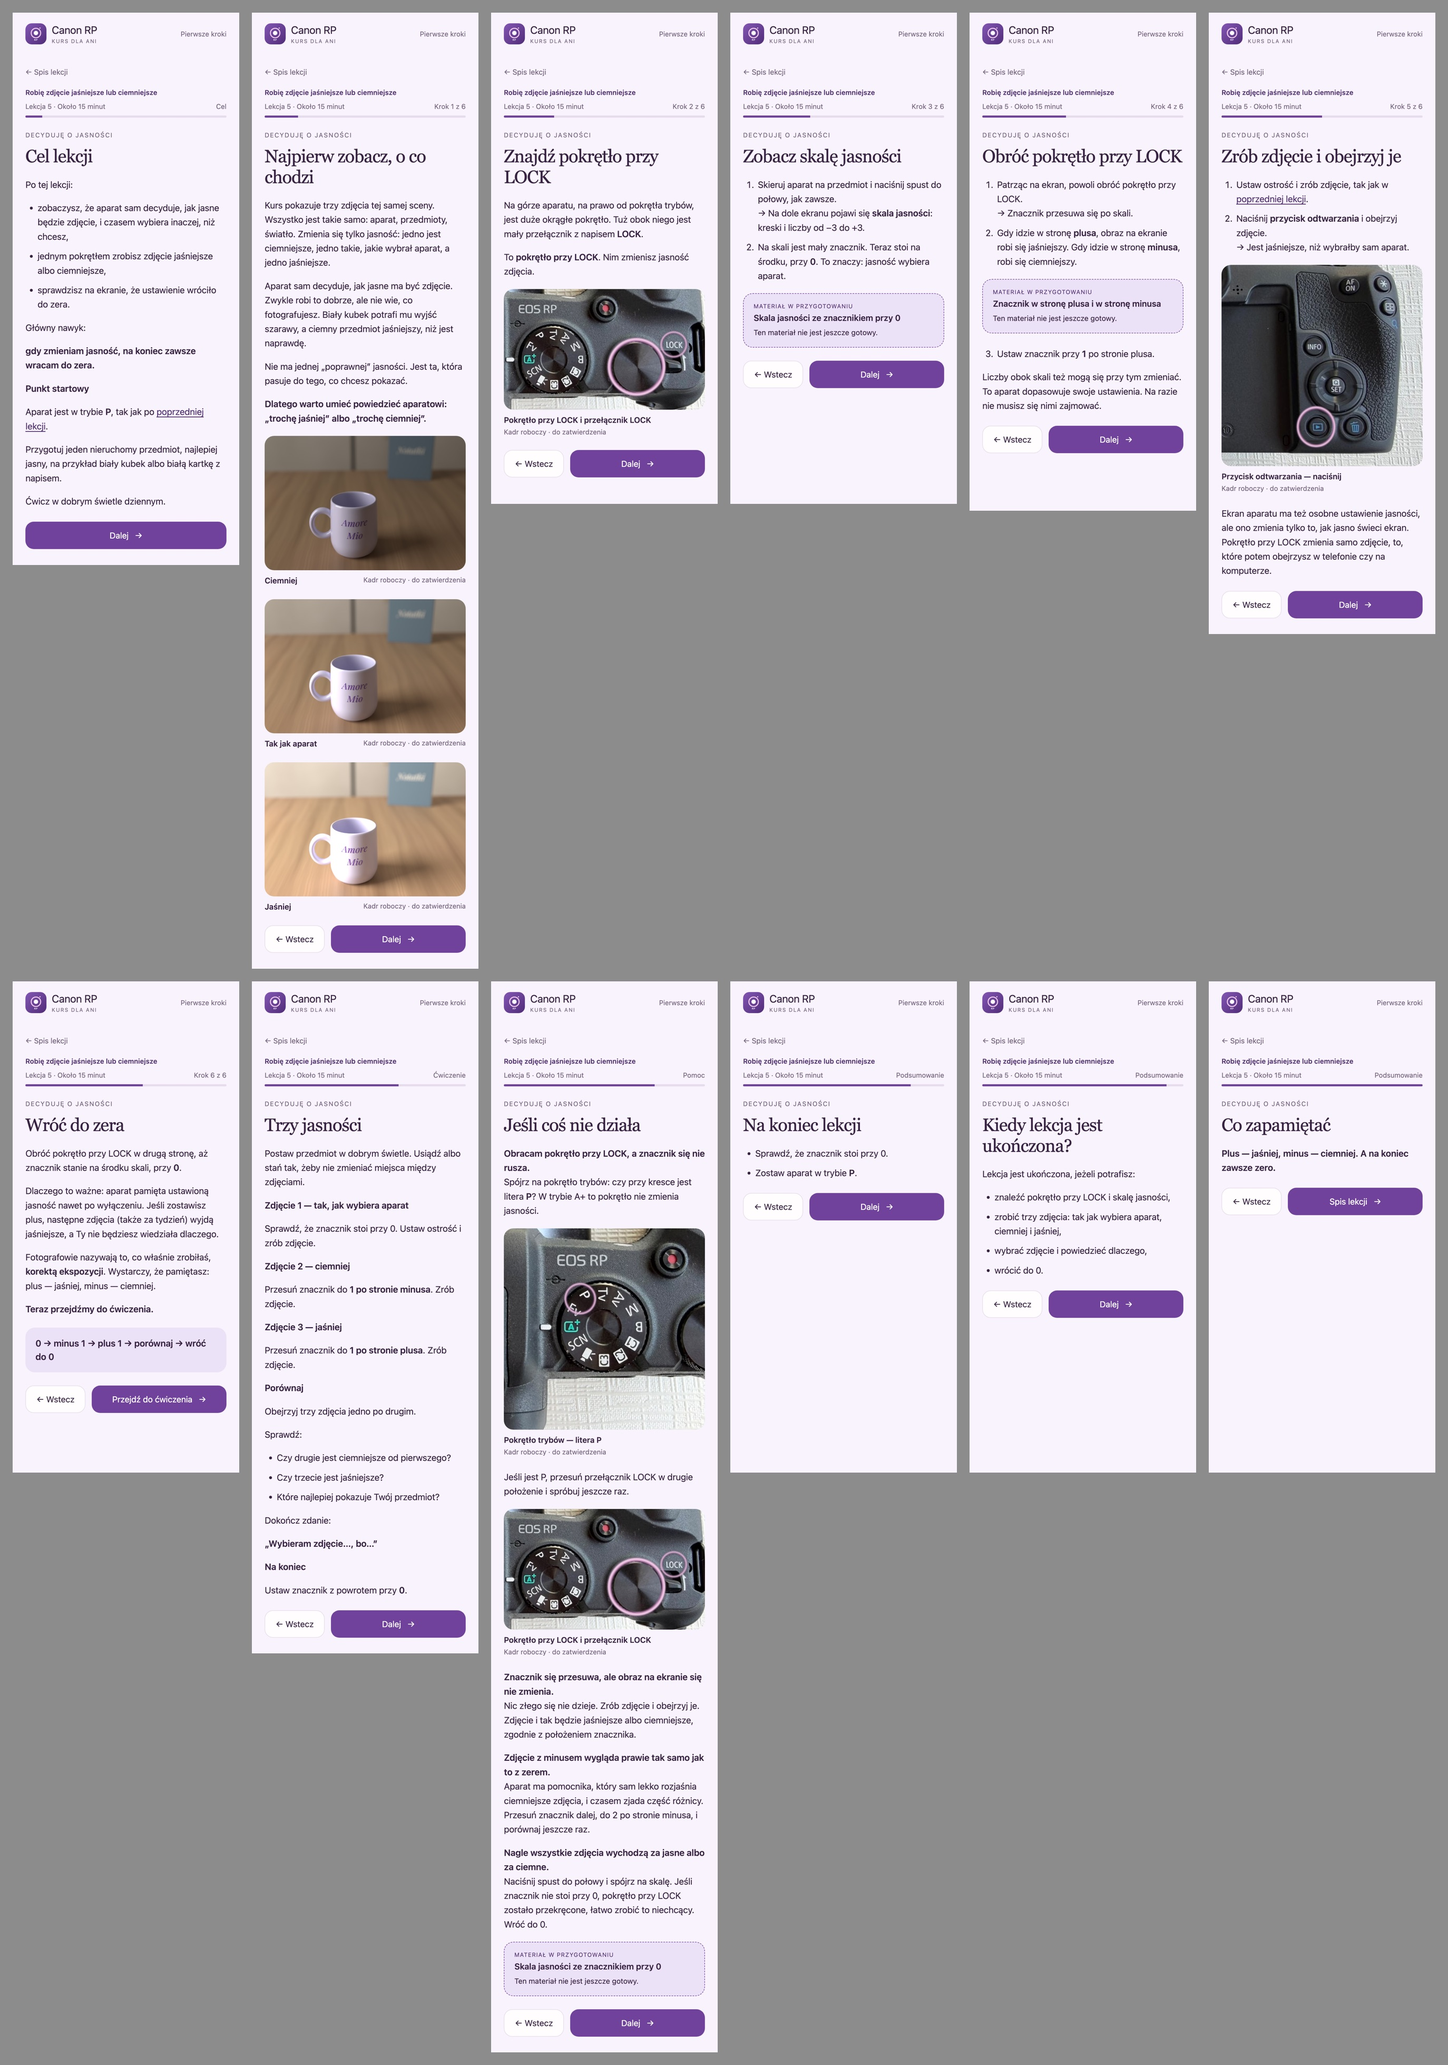
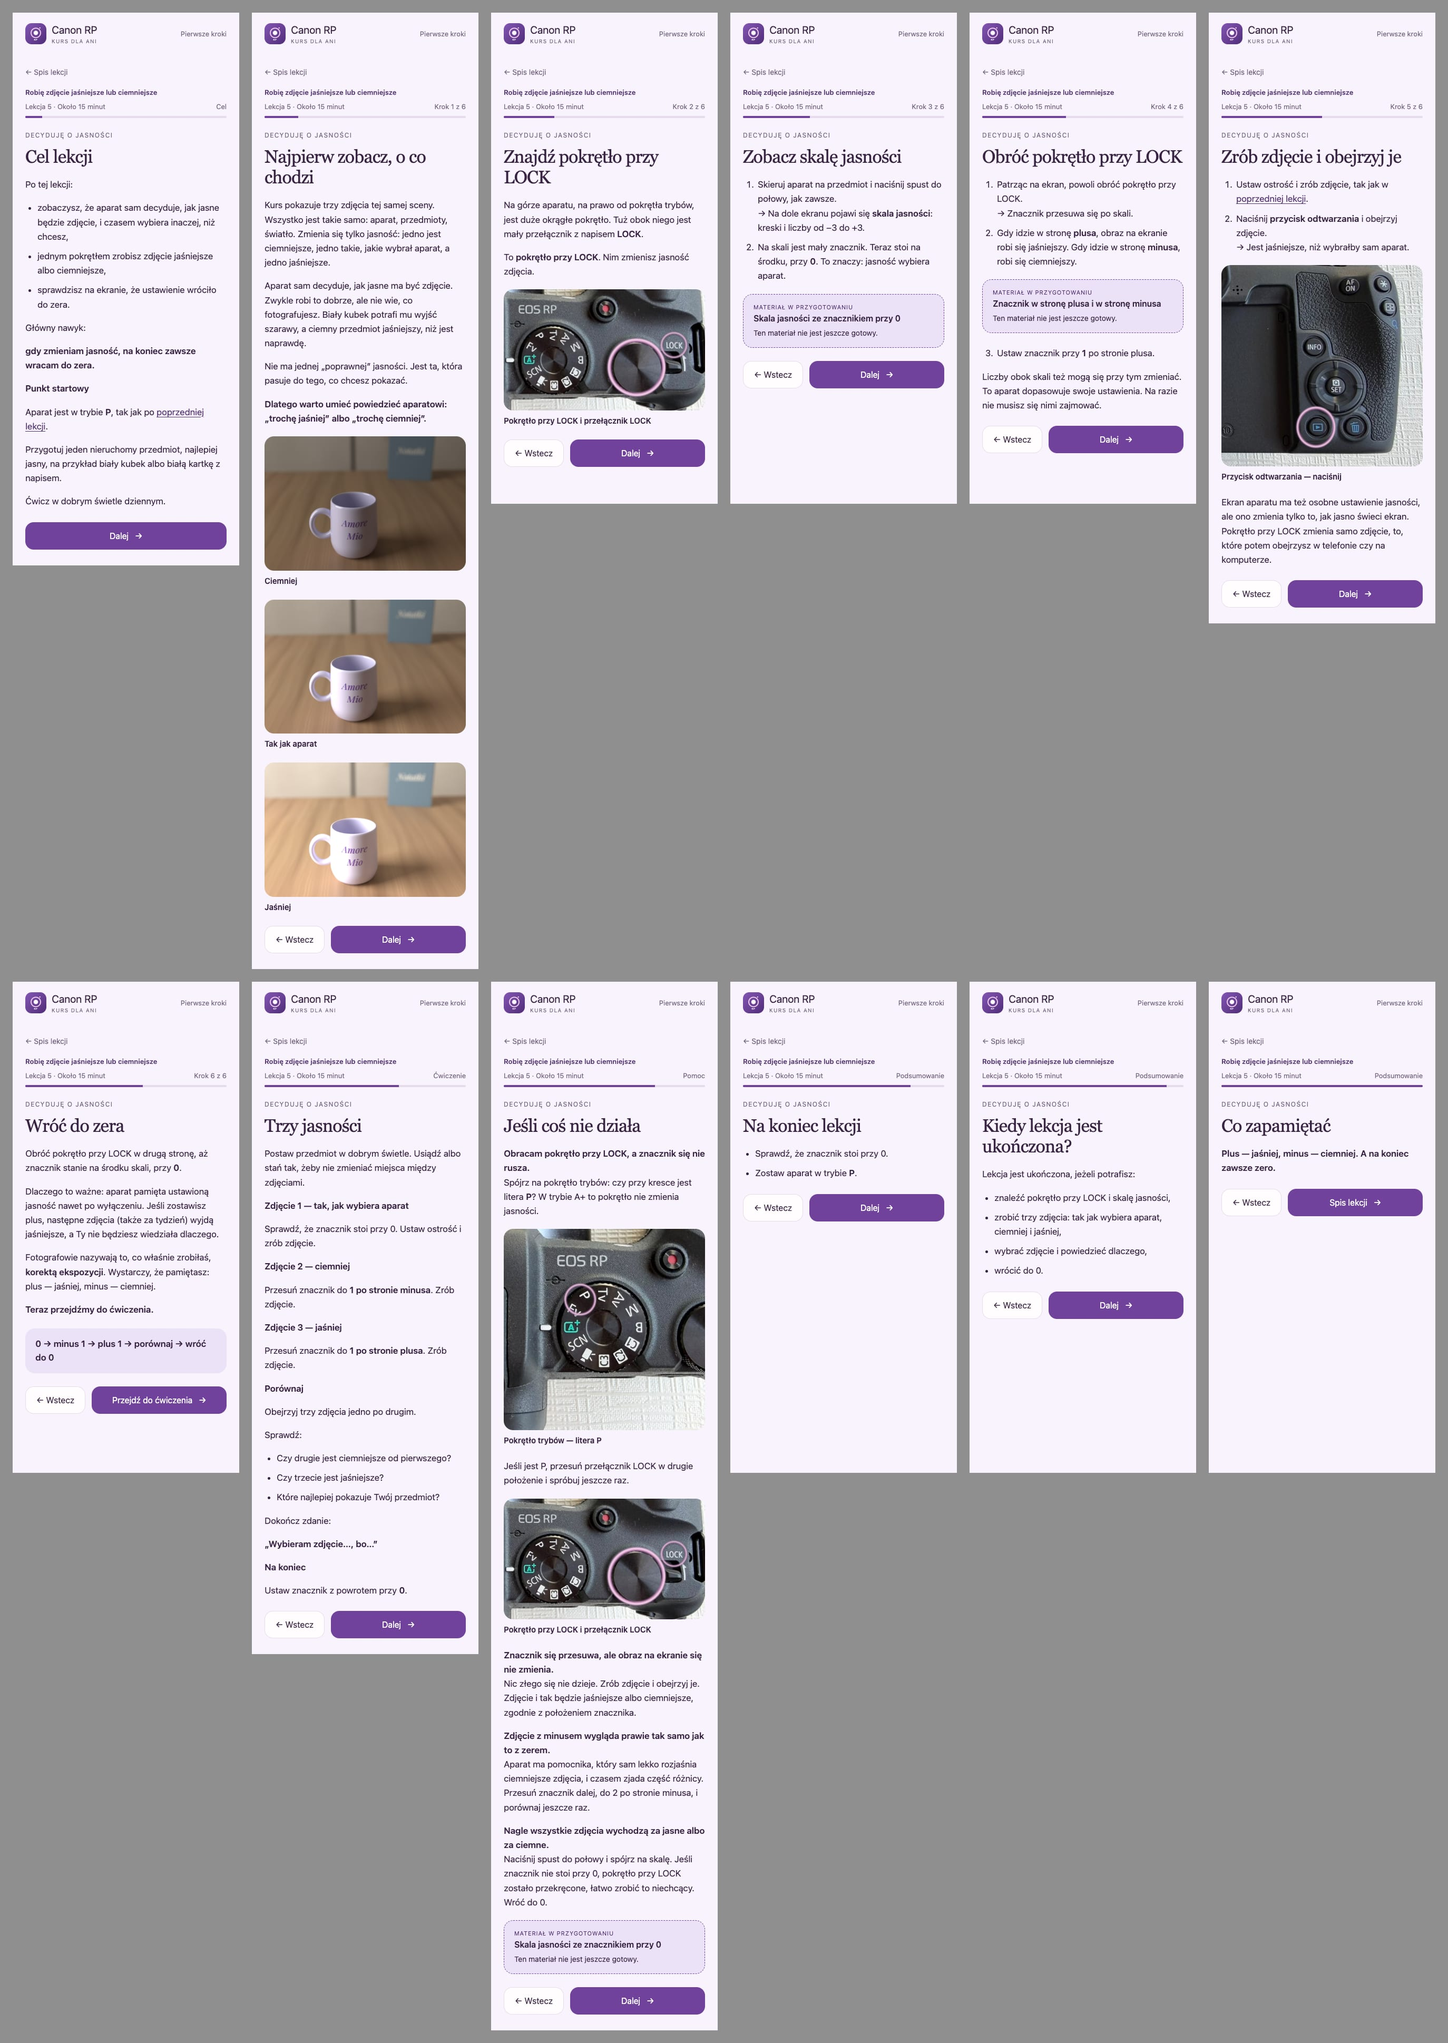
App: remove working caption under photos and unused status field
- photoMarkup no longer renders "Kadr roboczy · do zatwierdzenia"; photo title stays.
- lessons.js: removed "status" from all 41 assets (nothing read it).
- app/README.md: material statuses live only in docs/16_ASSET_MANIFEST.md.
- review/app/<lesson>/arkusz.jpg for L1-01..L1-05 at 430 px (D-068),
  rendered from tracked files only, so Canon drawings stay out of Git (D-056).

diff --git a/app/dist/lessons.js b/app/dist/lessons.js
@@ -74,7 +74,6 @@ window.CANON_LESSONS = [
         "id": "L1-01-V01",
         "step": "L1-01-S01",
         "title": "Przełącznik zasilania",
-        "status": "APPROVAL_PENDING",
         "note": "Kadr z wybranego mastera fbe2fd62-e8ab-465b-b340-b6d0b4458622.jpg przygotowany lokalnie; oczekuje na zatwierdzenie.",
         "source": "fbe2fd62-e8ab-465b-b340-b6d0b4458622.jpg",
         "frames": [
@@ -99,7 +98,6 @@ window.CANON_LESSONS = [
         "id": "L1-01-V02",
         "step": "L1-01-S02",
         "title": "Tryb A+",
-        "status": "APPROVAL_PENDING",
         "note": "Kadr z wybranego mastera fbe2fd62-e8ab-465b-b340-b6d0b4458622.jpg przygotowany lokalnie; oczekuje na zatwierdzenie.",
         "source": "fbe2fd62-e8ab-465b-b340-b6d0b4458622.jpg",
         "frames": [
@@ -124,7 +122,6 @@ window.CANON_LESSONS = [
         "id": "L1-01-V03",
         "step": "L1-01-S03",
         "title": "Prawidłowe trzymanie aparatu",
-        "status": "w aplikacji — APPROVAL_PENDING",
         "note": "Obraz wygenerowany w Higgsfield (D-071).",
         "frames": [
           {
@@ -140,7 +137,6 @@ window.CANON_LESSONS = [
         "id": "L1-01-V04",
         "step": "L1-01-S05",
         "title": "Półnaciśnięcie i pełne naciśnięcie spustu",
-        "status": "w aplikacji — APPROVAL_PENDING",
         "note": "Rysunek z instrukcji Canon (D-056, D-058); plik lokalny, do podmiany. Animacja później.",
         "frames": [
           {
@@ -172,7 +168,6 @@ window.CANON_LESSONS = [
         "id": "L1-01-V05",
         "step": "L1-01-S05",
         "title": "Potwierdzenie ostrości na ekranie",
-        "status": "w aplikacji — APPROVAL_PENDING",
         "note": "Rysunki z instrukcji Canon (D-056); pliki lokalne, do podmiany.",
         "frames": [
           {
@@ -195,7 +190,6 @@ window.CANON_LESSONS = [
         "id": "L1-01-V06",
         "step": "L1-01-S08",
         "title": "Łatwy i trudny przedmiot dla AF",
-        "status": "w aplikacji — APPROVAL_PENDING",
         "note": "Cztery rendery sceny 3D (D-058).",
         "layout": "grid",
         "frames": [
@@ -354,7 +348,6 @@ window.CANON_LESSONS = [
         "id": "L1-02-V01",
         "step": "L1-02-S01",
         "title": "Ważny szczegół ostry i ostrość przesunięta",
-        "status": "w aplikacji — APPROVAL_PENDING",
         "note": "Para renderów sceny 3D; zmienia się tylko odległość ostrości.",
         "frames": [
           {
@@ -377,7 +370,6 @@ window.CANON_LESSONS = [
         "id": "L1-02-V02",
         "step": "L1-02-S02",
         "title": "Całe zdjęcie i powiększony szczegół",
-        "status": "w aplikacji — APPROVAL_PENDING",
         "note": "Render V04A pozycja 1 v3: całe zdjęcie i wycinek napisu z pełnej rozdzielczości.",
         "frames": [
           {
@@ -400,7 +392,6 @@ window.CANON_LESSONS = [
         "id": "L1-02-V03",
         "step": "L1-02-S03",
         "title": "Przycisk odtwarzania i tylny wybierak na aparacie Ani",
-        "status": "APPROVAL_PENDING",
         "note": "Kadr z wybranego zdjęcia 57652b89-ae48-4cd1-b998-e883aee8aa1f.jpg przygotowany lokalnie; oczekuje na zatwierdzenie.",
         "source": "57652b89-ae48-4cd1-b998-e883aee8aa1f.jpg",
         "frames": [
@@ -456,7 +447,6 @@ window.CANON_LESSONS = [
         "id": "L1-02-V04",
         "step": "L1-02-S04",
         "title": "Jak powiększyć i przesunąć widok",
-        "status": "APPROVAL_PENDING",
         "note": "Kadry z dwóch wskazanych zdjęć źródłowych; oznaczenia CSS. Oczekują na zatwierdzenie.",
         "sources": [
           "57652b89-ae48-4cd1-b998-e883aee8aa1f.jpg",
@@ -514,7 +504,6 @@ window.CANON_LESSONS = [
         "id": "L1-02-V05",
         "step": "L1-02-S05",
         "title": "Karta przypominająca wzorzec",
-        "status": "w aplikacji — APPROVAL_PENDING",
         "note": "Karta z wycinków V02 (ostry) i V01 (nieostry).",
         "layout": "grid",
         "frames": [
@@ -620,7 +609,6 @@ window.CANON_LESSONS = [
         "id": "L1-03-V01",
         "step": "L1-03-S01",
         "title": "Ten sam przedmiot, prostsze tło",
-        "status": "w aplikacji — APPROVAL_PENDING",
         "note": "Rendery sceny 3D (D-051, D-058).",
         "frames": [
           {
@@ -643,7 +631,6 @@ window.CANON_LESSONS = [
         "id": "L1-03-V02",
         "step": "L1-03-S02",
         "title": "Zobacz brzegi kadru",
-        "status": "w aplikacji — APPROVAL_PENDING",
         "note": "Rendery wariantu sceny (D-054).",
         "frames": [
           {
@@ -666,7 +653,6 @@ window.CANON_LESSONS = [
         "id": "L1-03-V03",
         "step": "L1-03-S03",
         "title": "Poziomo / pionowo",
-        "status": "w aplikacji — APPROVAL_PENDING",
         "note": "Rendery sceny 3D (D-051, D-054).",
         "frames": [
           {
@@ -689,7 +675,6 @@ window.CANON_LESSONS = [
         "id": "L1-03-V04A",
         "step": "L1-03-S04",
         "title": "Jeden krok w bok",
-        "status": "w aplikacji — APPROVAL_PENDING",
         "note": "Rendery sceny 3D, V04A v3 (D-051).",
         "frames": [
           {
@@ -712,7 +697,6 @@ window.CANON_LESSONS = [
         "id": "L1-03-V04B",
         "step": "L1-03-S05",
         "title": "Trzy wysokości aparatu",
-        "status": "w aplikacji — APPROVAL_PENDING",
         "note": "Rendery finalne wariantu sceny (D-054).",
         "frames": [
           {
@@ -742,7 +726,6 @@ window.CANON_LESSONS = [
         "id": "L1-03-V05",
         "step": "L1-03-S06",
         "title": "RF 50 mm: stała ogniskowa",
-        "status": "w aplikacji — APPROVAL_PENDING",
         "note": "Zdjęcie obiektywu Ani i własny schemat.",
         "frames": [
           {
@@ -765,7 +748,6 @@ window.CANON_LESSONS = [
         "id": "L1-03-V06",
         "step": "L1-03-S07",
         "title": "Karta przed ćwiczeniem",
-        "status": "w aplikacji — APPROVAL_PENDING",
         "target": "komponent aplikacji",
         "kind": "card",
         "body": "**Poziomo czy pionowo? → brzegi i tło → moje miejsce → zdjęcie.**"
@@ -983,7 +965,6 @@ window.CANON_LESSONS = [
         "id": "L1-04-V01",
         "step": "L1-04-S01",
         "title": "Ostry bliższy i ostry dalszy",
-        "status": "w aplikacji — APPROVAL_PENDING",
         "note": "Rendery sceny 3D; zmienia się tylko odległość ostrości.",
         "frames": [
           {
@@ -1006,7 +987,6 @@ window.CANON_LESSONS = [
         "id": "L1-04-V02",
         "step": "L1-04-S03",
         "title": "Pokrętło trybów — litera P",
-        "status": "w aplikacji — APPROVAL_PENDING",
         "note": "Wycinek zdjęcia aparatu Ani.",
         "source": "fbe2fd62-e8ab-465b-b340-b6d0b4458622.jpg",
         "frames": [
@@ -1031,7 +1011,6 @@ window.CANON_LESSONS = [
         "id": "L1-04-V03",
         "step": "L1-04-S04",
         "title": "Przycisk Q/SET na tylnym wybieraku",
-        "status": "w aplikacji — APPROVAL_PENDING",
         "note": "Wycinek zdjęcia aparatu Ani.",
         "source": "57652b89-ae48-4cd1-b998-e883aee8aa1f.jpg",
         "frames": [
@@ -1056,7 +1035,6 @@ window.CANON_LESSONS = [
         "id": "L1-04-V04",
         "step": "L1-04-S04",
         "title": "Szybkie ustawienia — napis Metoda AF",
-        "status": "w aplikacji — APPROVAL_PENDING",
         "note": "Rysunek z instrukcji Canon (D-056); plik lokalny, do podmiany.",
         "localOnly": true,
         "frames": [
@@ -1073,7 +1051,6 @@ window.CANON_LESSONS = [
         "id": "L1-04-V05",
         "step": "L1-04-S04",
         "title": "Ikona z jednym małym kwadratem — 1-punktowy AF",
-        "status": "w aplikacji — APPROVAL_PENDING",
         "note": "Rysunek z instrukcji Canon (D-056); plik lokalny, do podmiany.",
         "localOnly": true,
         "frames": [
@@ -1090,7 +1067,6 @@ window.CANON_LESSONS = [
         "id": "L1-04-V06",
         "step": "L1-04-S05",
         "title": "Przycisk lupy, Q/SET i przycisk kosza",
-        "status": "w aplikacji — APPROVAL_PENDING",
         "note": "Wycinek zdjęcia aparatu Ani.",
         "source": "57652b89-ae48-4cd1-b998-e883aee8aa1f.jpg",
         "frames": [
@@ -1129,7 +1105,6 @@ window.CANON_LESSONS = [
         "id": "L1-04-V07",
         "step": "L1-04-S05",
         "title": "Ekran przesuwania punktu ostrości — jest jeszcze na środku",
-        "status": "w aplikacji — APPROVAL_PENDING",
         "note": "Rysunek z instrukcji Canon (D-056); plik lokalny, do podmiany.",
         "localOnly": true,
         "frames": [
@@ -1146,7 +1121,6 @@ window.CANON_LESSONS = [
         "id": "L1-04-V08",
         "step": "L1-04-S06",
         "title": "Zielony punkt ostrości — ostrość ustawiona",
-        "status": "w aplikacji — APPROVAL_PENDING",
         "note": "Rysunek z instrukcji Canon (D-056); plik lokalny, do podmiany.",
         "localOnly": true,
         "frames": [
@@ -1163,7 +1137,6 @@ window.CANON_LESSONS = [
         "id": "L1-04-V09",
         "step": "L1-04-POMOC",
         "title": "Ikona w lewym dolnym rogu ekranu",
-        "status": "w aplikacji — APPROVAL_PENDING",
         "note": "Rysunek z instrukcji Canon (D-056); plik lokalny, do podmiany.",
         "localOnly": true,
         "frames": [
@@ -1180,7 +1153,6 @@ window.CANON_LESSONS = [
         "id": "L1-04-V10",
         "step": "L1-04-S07",
         "title": "Karta przed ćwiczeniem",
-        "status": "UI_COMPONENT",
         "target": "komponent aplikacji",
         "kind": "card",
         "body": "**P → jeden punkt ostrości → punkt ostrości na przedmiot → spust do połowy → zielony punkt ostrości → zdjęcie → powiększ**"
@@ -1189,7 +1161,6 @@ window.CANON_LESSONS = [
         "id": "L1-04-V11",
         "step": "L1-04-S04",
         "title": "Napis ONE SHOT",
-        "status": "w aplikacji — APPROVAL_PENDING",
         "note": "Rysunek z instrukcji Canon (D-056); plik lokalny, do podmiany. Ten sam rysunek co V04.",
         "localOnly": true,
         "frames": [
@@ -1215,7 +1186,6 @@ window.CANON_LESSONS = [
         "id": "L1-04-V12",
         "step": "L1-04-POMOC",
         "title": "Przycisk MENU",
-        "status": "w aplikacji — APPROVAL_PENDING",
         "note": "Wycinek zdjęcia aparatu Ani.",
         "source": "57652b89-ae48-4cd1-b998-e883aee8aa1f.jpg",
         "frames": [
@@ -1241,7 +1211,6 @@ window.CANON_LESSONS = [
         "id": "L1-04-V13",
         "step": "L1-04-POMOC",
         "title": "Czerwona część menu z ikoną aparatu",
-        "status": "w aplikacji — APPROVAL_PENDING",
         "note": "Zdjęcie ekranu aparatu Ani.",
         "source": "10a55454-d36b-4e92-9568-1b4dd40ffa5e.jpg",
         "frames": [
@@ -1267,7 +1236,6 @@ window.CANON_LESSONS = [
         "id": "L1-04-V14",
         "step": "L1-04-POMOC",
         "title": "Napis Metoda AF",
-        "status": "w aplikacji — APPROVAL_PENDING",
         "note": "Zdjęcie ekranu aparatu Ani.",
         "source": "336149b5-debf-4a74-b168-12d210f1b591.jpg",
         "frames": [
@@ -1293,7 +1261,6 @@ window.CANON_LESSONS = [
         "id": "L1-04-V15",
         "step": "L1-04-POMOC",
         "title": "Ikona z jednym małym kwadratem — 1-punktowy AF",
-        "status": "w aplikacji — APPROVAL_PENDING",
         "note": "Rysunek z instrukcji Canon (D-056); plik lokalny, do podmiany. Ten sam rysunek co V05.",
         "localOnly": true,
         "frames": [
@@ -1319,7 +1286,6 @@ window.CANON_LESSONS = [
         "id": "L1-04-V16",
         "step": "L1-04-POMOC",
         "title": "Napis Działanie AF i wybór One-Shot AF",
-        "status": "w aplikacji — APPROVAL_PENDING",
         "note": "Rysunek z instrukcji Canon (D-056); plik lokalny, do podmiany.",
         "localOnly": true,
         "frames": [
@@ -1361,7 +1327,6 @@ window.CANON_LESSONS = [
         "id": "L1-04-V17",
         "step": "L1-04-POMOC",
         "title": "Ramka ostrości na twarzy",
-        "status": "w aplikacji — APPROVAL_PENDING",
         "note": "Rysunek z instrukcji Canon (D-056); plik lokalny, do podmiany.",
         "localOnly": true,
         "frames": [
@@ -1511,7 +1476,6 @@ window.CANON_LESSONS = [
         "id": "L1-05-V01",
         "step": "L1-05-S01",
         "title": "Trzy jasności tej samej sceny",
-        "status": "w aplikacji — APPROVAL_PENDING",
         "note": "Rendery sceny 3D z L1-04; zmienia się tylko ekspozycja.",
         "frames": [
           {
@@ -1541,7 +1505,6 @@ window.CANON_LESSONS = [
         "id": "L1-05-V02",
         "step": "L1-05-S02",
         "title": "Pokrętło przy LOCK i przełącznik LOCK",
-        "status": "w aplikacji — APPROVAL_PENDING",
         "note": "Wycinek zdjęcia aparatu Ani.",
         "source": "fbe2fd62-e8ab-465b-b340-b6d0b4458622.jpg",
         "frames": [
@@ -1579,7 +1542,6 @@ window.CANON_LESSONS = [
         "id": "L1-05-V04",
         "step": "L1-05-S04",
         "title": "Znacznik w stronę plusa i w stronę minusa",
-        "status": "w aplikacji — APPROVAL_PENDING",
         "note": "Rysunek z instrukcji Canon (D-056); plik lokalny, do podmiany. Bez pliku aplikacja pokazuje jawne miejsce na brakujący materiał.",
         "localOnly": true,
         "frames": [
@@ -1596,7 +1558,6 @@ window.CANON_LESSONS = [
         "id": "L1-05-V05",
         "step": "L1-05-S06",
         "title": "Karta przed ćwiczeniem",
-        "status": "UI_COMPONENT",
         "target": "komponent aplikacji",
         "kind": "card",
         "body": "**0 → minus 1 → plus 1 → porównaj → wróć do 0**"
@@ -1605,7 +1566,6 @@ window.CANON_LESSONS = [
         "id": "L1-02-V03",
         "step": "L1-05-S05",
         "title": "Przycisk odtwarzania",
-        "status": "materiał z lekcji 2",
         "note": "Ten sam plik i oznaczenie co L1-02-V03 (pierwszy kadr).",
         "source": "57652b89-ae48-4cd1-b998-e883aee8aa1f.jpg",
         "frames": [
@@ -1630,7 +1590,6 @@ window.CANON_LESSONS = [
         "id": "L1-04-V02",
         "step": "L1-05-POMOC",
         "title": "Pokrętło trybów — litera P",
-        "status": "materiał z lekcji 4",
         "note": "Ten sam plik i oznaczenie co L1-04-V02.",
         "source": "fbe2fd62-e8ab-465b-b340-b6d0b4458622.jpg",
         "frames": [

diff --git a/app/dist/app.js b/app/dist/app.js
@@ -71,7 +71,7 @@
     return `<figure class="asset-photo" data-asset-id="${escape(asset.id)}">
       <div class="asset-image"><img${asset.localOnly ? ' data-local-only' : ''} src="${escape(frame.target)}" alt="${escape(frame.alt || `${frame.title} na rzeczywistym aparacie Canon EOS RP`)}" width="${frame.width}" height="${frame.height}">
         ${(frame.markers || []).map(markerMarkup).join('')}</div>
-      <figcaption><strong>${escape(frame.title)}</strong><span>Kadr roboczy · do zatwierdzenia</span></figcaption>
+      <figcaption><strong>${escape(frame.title)}</strong></figcaption>
     </figure>`;
   }
 

diff --git a/app/README.md b/app/README.md
@@ -14,7 +14,7 @@ Surowe zdjęcia pozostają w lokalnym pakiecie `/Users/pawelsiedleczka/Documents
 
 ### Lokalne korekty K-01–K-04 — 27.09.2026
 
-Lekcja 1 ma osobne domknięcie teorii przed ćwiczeniem i przycisk „Przejdź do ćwiczenia”. Identyfikatory, statusy oraz notatki produkcyjne pozostają w danych, ale nie są renderowane Ani. Niegotowe materiały nadal mają jawne, naturalnie opisane placeholdery.
+Lekcja 1 ma osobne domknięcie teorii przed ćwiczeniem i przycisk „Przejdź do ćwiczenia”. Identyfikatory oraz notatki produkcyjne pozostają w danych, ale nie są renderowane Ani. Statusy materiałów są prowadzone wyłącznie w `docs/16_ASSET_MANIFEST.md`, nie w danych aplikacji. Niegotowe materiały nadal mają jawne, naturalnie opisane placeholdery.
 
 Powyższy opis trzech kadrów dotyczy wcześniejszej wersji. Materiał odtwarzania w Lekcji 2 ma teraz dwa ujęcia (odtwarzanie i wybierak), a powiększenie — trzy (lupa, główne pokrętło, wybierak). Wszystkie są wyświetlane przed tekstem używającym tych elementów. Nowe kadry pochodzą wyłącznie ze wskazanych masterów:
 
